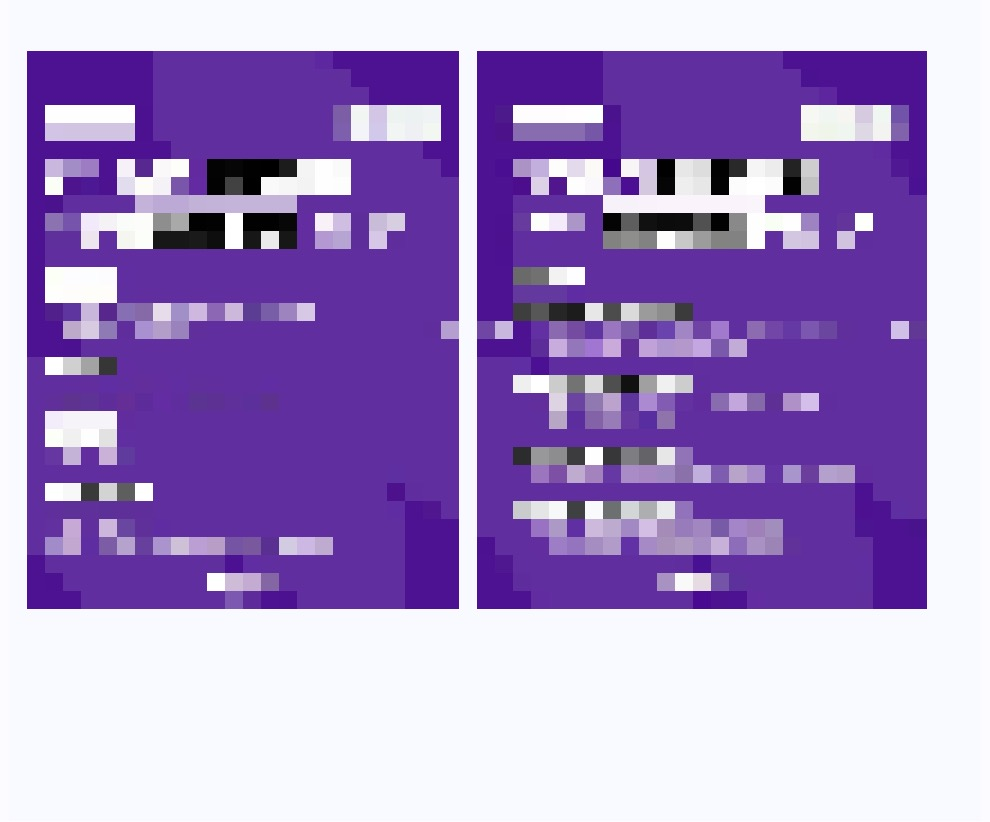
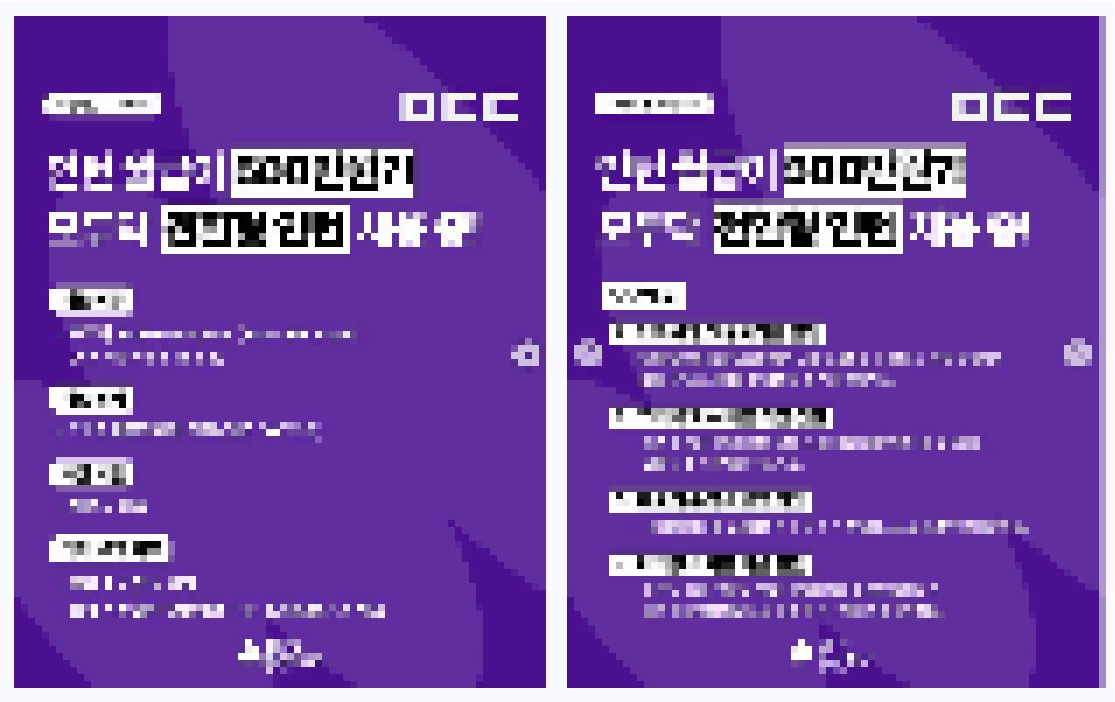
style(ui): biz 소개서 받기를 광고 신청·문의로 옮기고 고객 사례 카드와 모자이크를 다듬는다
- 랜딩 첫 화면에서 소개서 받기를 빼고, 광고 신청·문의의 광고 문의하기 카드에 넣는다
- 고객 사례는 광고 안내(랜딩)에 둔다. 앞의 두 장은 넓게, 뒤의 세 장은 3열로 두고 성과 숫자를 크게, 진행 채널을 태그로 보인다
- 사례 이미지를 소재 영역에 맞게 다시 자르고 모자이크를 약하게(칸 18 → 7) 한다

diff --git a/apps/business/src/widgets/landing/LandingPage.tsx b/apps/business/src/widgets/landing/LandingPage.tsx
@@ -2,8 +2,8 @@ import type { CSSProperties } from 'react';
 import Image from 'next/image';
 import Link from 'next/link';
 import { cn } from '@ogonggo/ui';
+import { AD_INTRODUCTION_PDF } from '@/shared/config/site';
 import {
-  AD_INTRODUCTION_PDF,
   CASES,
   CHANNEL_GROUPS,
   CHANNEL_STATS,
@@ -81,15 +81,7 @@ function Hero() {
             <a href="#placements" className={PRIMARY_BUTTON}>
               광고 구좌 둘러보기
             </a>
-            {/* 소개서는 새 탭의 PDF 다. 견적 문의는 신청·문의 화면으로 간다(2026-11-10 사용자). */}
-            <a
-              href={AD_INTRODUCTION_PDF}
-              target="_blank"
-              rel="noreferrer"
-              className={OUTLINE_BUTTON}
-            >
-              소개서 받기
-            </a>
+            {/* 소개서 받기는 광고 신청·문의 화면에 있다(2026-11-10 사용자). */}
             <Link href="/apply" className={OUTLINE_BUTTON}>
               견적 문의
             </Link>
@@ -470,7 +462,8 @@ function Cases() {
         </a>
         에서 볼 수 있어요.
       </p>
-      <ul className="mt-8 grid gap-4 sm:grid-cols-2 lg:grid-cols-3">
+      {/* 앞의 두 사례는 넓게, 뒤의 셋은 3열로 둬 다섯 장이 빈칸 없이 두 줄에 들어간다. */}
+      <ul className="mt-8 grid gap-4 sm:grid-cols-2 lg:grid-cols-6 lg:gap-5">
         {CASES.map((c, i) => (
           <li
             key={c.company}
@@ -478,39 +471,60 @@ function Cases() {
             style={order(i)}
             className={cn(
               LIFT,
-              'flex flex-col overflow-hidden rounded-xl border border-gray-200 bg-white',
+              'group flex flex-col overflow-hidden rounded-2xl border border-gray-200 bg-white',
+              i < 2 ? 'lg:col-span-3' : 'lg:col-span-2',
+              i === 4 && 'sm:col-span-2 lg:col-span-2',
             )}
           >
-            <div className="relative aspect-[16/10] overflow-hidden bg-gray-50">
-              <Image
-                src={c.image}
-                alt=""
-                fill
-                sizes="(min-width: 1024px) 380px, (min-width: 640px) 50vw, 100vw"
-                className="object-cover"
-              />
-              <span className="absolute top-3 left-3 rounded-full bg-gray-900/70 px-2.5 py-1 text-xs font-medium text-white">
+            <div
+              className={cn(
+                'relative overflow-hidden bg-gradient-to-br from-gray-50 to-blue-00 p-4',
+                i < 2 ? 'aspect-[16/9]' : 'aspect-[4/3]',
+              )}
+            >
+              <div className="relative h-full w-full overflow-hidden rounded-lg shadow-sm">
+                <Image
+                  src={c.image}
+                  alt=""
+                  fill
+                  sizes="(min-width: 1024px) 560px, (min-width: 640px) 50vw, 100vw"
+                  className="object-cover object-top transition-transform duration-500 group-hover:scale-[1.03]"
+                />
+              </div>
+              <span className="absolute top-6 left-6 rounded-full bg-white/95 px-2.5 py-1 text-xs font-semibold text-gray-900 shadow-sm">
                 사례 {i + 1} · {c.kind}
               </span>
             </div>
-            <div className="flex flex-1 flex-col px-5 py-5">
+            <div className="flex flex-1 flex-col px-6 pt-5 pb-6">
               <p className="text-sm font-semibold text-blue-500">{c.company}</p>
-              <p className="mt-1 text-lg font-bold">{c.title}</p>
+              <p className="mt-1 text-xl font-bold leading-snug">{c.title}</p>
               <p className="mt-2 text-sm leading-relaxed text-gray-600">{c.situation}</p>
-              <p className="mt-3 text-xs text-gray-500">
-                <span className="mr-1.5 text-gray-400">진행</span>
-                {c.channels}
-              </p>
-              <ul className="mt-4 flex flex-wrap gap-1.5 border-t border-gray-100 pt-4">
-                {c.results.map((r) => (
+              <ul className="mt-3 mb-5 flex flex-wrap gap-1.5">
+                {c.channels.map((channel) => (
                   <li
-                    key={r}
-                    className="rounded-md bg-blue-00 px-2.5 py-1 text-sm font-semibold text-blue-600"
+                    key={channel}
+                    className="rounded-full bg-gray-100 px-2.5 py-1 text-xs text-gray-600"
                   >
-                    {r}
+                    {channel}
                   </li>
                 ))}
               </ul>
+              <dl
+                className={cn(
+                  'mt-auto grid gap-2 border-t border-gray-100 pt-5',
+                  c.metrics.length > 1 ? 'grid-cols-3' : 'grid-cols-1',
+                )}
+              >
+                {c.metrics.map((m) => (
+                  // 숫자를 위에 크게 보이고, 읽는 순서는 이름 → 값이다.
+                  <div key={m.label} className="flex flex-col">
+                    <dt className="order-2 mt-0.5 text-xs text-gray-500">{m.label}</dt>
+                    <dd className="order-1 text-2xl font-bold tracking-tight text-blue-500">
+                      {m.value}
+                    </dd>
+                  </div>
+                ))}
+              </dl>
             </div>
           </li>
         ))}

diff --git a/apps/business/src/widgets/landing/content.ts b/apps/business/src/widgets/landing/content.ts
@@ -545,12 +545,9 @@ export const FAQ = [
   },
 ];
 
-/** 광고 상품 소개서(PDF). 랜딩 첫 화면의 `소개서 받기` 가 연다. 원본은 디자인팀 `AD_introduction.pdf`(2026-11-10). */
-export const AD_INTRODUCTION_PDF = '/ad-introduction.pdf';
-
 /**
  * 고객 사례 5건. 소개서 17~21쪽을 옮겼다(2026-11-10 사용자). 이미지는 그 쪽의 실제 집행 소재를 모자이크한 것이라
- * 소재 글씨는 읽히지 않는다(`public/landing/cases`).
+ * 소재의 큰 제목 모양만 보이고 세부 글씨는 읽히지 않는다(`public/landing/cases`).
  */
 export const CASES = [
   {
@@ -559,18 +556,25 @@ export const CASES = [
     company: '토스페이먼츠',
     title: '세일즈 계약직 채용',
     situation: '마감이 촉박해 직무 적합도 높은 지원자가 빠르게 필요했어요.',
-    channels: '오공고 인스타 피드·스토리 + 직무 큐레이션 톡방 4곳',
-    results: ['조회수 1.8만회', '팔로워 조회 비율 97.5%', '전체 클릭 135'],
+    channels: ['오공고 인스타 피드·스토리', '직무 큐레이션 톡방 4곳'],
+    metrics: [
+      { value: '1.8만', label: '조회수' },
+      { value: '97.5%', label: '팔로워 조회 비율' },
+      { value: '135', label: '전체 클릭' },
+    ],
   },
   {
     image: '/landing/cases/case-2.jpg',
     kind: '채용공고 광고',
     company: '레브잇',
     title: '콘텐츠 마케팅 인턴 채용',
-    situation:
-      '채용 시 마감이라 빠른 지원 유입이 필요했어요. 문의 24분 만에 톡방 홍보를 시작했어요.',
-    channels: '마케팅·세일즈 톡방 + 인스타 2개 계정 스토리',
-    results: ['링크 유입 113건', '스토리 조회 1,700여건', '3개월 만에 재구매'],
+    situation: '채용 시 마감이라 빠른 유입이 필요했어요. 문의 24분 만에 톡방 홍보를 시작했어요.',
+    channels: ['마케팅·세일즈 톡방', '인스타 2개 계정 스토리'],
+    metrics: [
+      { value: '113', label: '링크 유입' },
+      { value: '1,700+', label: '스토리 조회' },
+      { value: '3개월', label: '만에 재구매' },
+    ],
   },
   {
     image: '/landing/cases/case-3.jpg',
@@ -578,8 +582,12 @@ export const CASES = [
     company: '모두닥',
     title: '전환형 인턴 채용',
     situation: '지원자 수와 함께 후보자의 적합도까지 확보해야 했어요.',
-    channels: '오공고 인스타 피드 1회',
-    results: ['도달 1만 계정', '조회수 2.8만회', '저장 149 · 공유 102'],
+    channels: ['오공고 인스타 피드 1회'],
+    metrics: [
+      { value: '2.8만', label: '조회수' },
+      { value: '1만', label: '도달 계정' },
+      { value: '149', label: '저장' },
+    ],
   },
   {
     image: '/landing/cases/case-4.jpg',
@@ -587,8 +595,12 @@ export const CASES = [
     company: '인바디',
     title: 'GBD 통합 직무 인턴',
     situation: '채용 시 마감이라 빠르게, 적합한 지원자를 모아야 했어요.',
-    channels: '오공고 인스타 피드 1회',
-    results: ['조회수 3.9만회', '도달 1.4만', '저장 308 · 공유 147'],
+    channels: ['오공고 인스타 피드 1회'],
+    metrics: [
+      { value: '3.9만', label: '조회수' },
+      { value: '1.4만', label: '도달' },
+      { value: '308', label: '저장' },
+    ],
   },
   {
     image: '/landing/cases/case-5.jpg',
@@ -596,7 +608,7 @@ export const CASES = [
     company: '라라스윗',
     title: '그로스 마케팅 인턴 채용설명회',
     situation: '기업에 관심 있는 지원자의 리드를 확보해야 했어요.',
-    channels: '라라스윗 현직자 세미나',
-    results: ['취준생 약 250명 참여'],
+    channels: ['현직자 세미나'],
+    metrics: [{ value: '250명', label: '취준생 참여' }],
   },
 ];

diff --git a/apps/business/src/app/(site)/apply/page.tsx b/apps/business/src/app/(site)/apply/page.tsx
@@ -1,6 +1,6 @@
 import type { Metadata } from 'next';
 import Link from 'next/link';
-import { CONTACT_EMAIL } from '@/shared/config/site';
+import { AD_INTRODUCTION_PDF, CONTACT_EMAIL } from '@/shared/config/site';
 
 export const metadata: Metadata = {
   title: '광고 신청 · 문의',
@@ -58,12 +58,23 @@ export default function ApplyChoicePage() {
             <br />
             상황에 맞는 상품과 집행 방식을 안내합니다. ({CONTACT_EMAIL})
           </p>
-          <a
-            href={INQUIRY_MAILTO}
-            className="mt-6 inline-flex rounded-md border border-gray-300 px-6 py-3.5 font-semibold hover:border-gray-900"
-          >
-            이메일로 문의하기
-          </a>
+          <div className="mt-6 flex flex-wrap gap-2">
+            <a
+              href={INQUIRY_MAILTO}
+              className="inline-flex rounded-md border border-gray-300 px-6 py-3.5 font-semibold hover:border-gray-900"
+            >
+              이메일로 문의하기
+            </a>
+            {/* 상품을 고르기 전에 소개서부터 보게 한다. 새 탭의 PDF 다(2026-11-10 사용자). */}
+            <a
+              href={AD_INTRODUCTION_PDF}
+              target="_blank"
+              rel="noreferrer"
+              className="inline-flex rounded-md border border-blue-500 px-6 py-3.5 font-semibold text-blue-500 hover:bg-blue-00"
+            >
+              소개서 받기
+            </a>
+          </div>
         </div>
       </div>
       <p className="mt-6 rounded-lg bg-blue-00 px-5 py-4 text-sm text-gray-600">

diff --git a/apps/business/src/shared/config/site.ts b/apps/business/src/shared/config/site.ts
@@ -24,3 +24,6 @@ export const TERMS_URL =
   'https://letsintern.notion.site/3e95e77cbee180f993a3c70e3bce5a21?source=copy_link';
 export const PRIVACY_POLICY_URL =
   'https://letsintern.notion.site/3e95e77cbee18074a1c7dc485644d737?pvs=74';
+
+/** 광고 상품 소개서(PDF). 광고 신청·문의의 `소개서 받기` 와 광고 안내의 고객 사례가 연다. 원본은 `AD_introduction.pdf`(2026-11-10). */
+export const AD_INTRODUCTION_PDF = '/ad-introduction.pdf';
